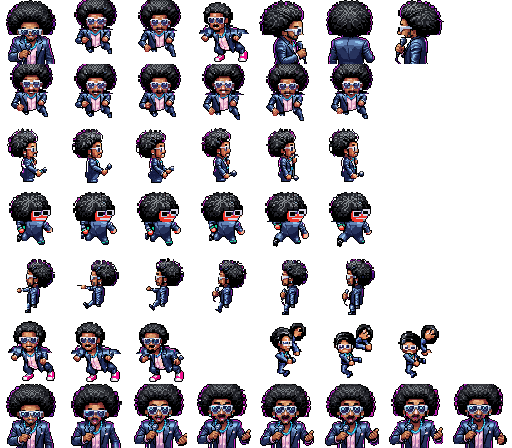
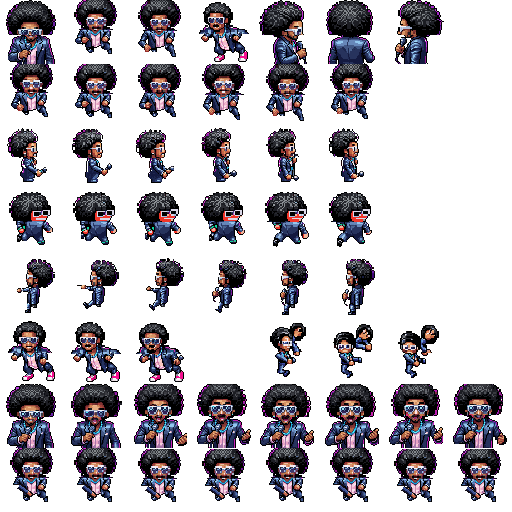
SanMik wonk animation; YEE YEE YEE when SanMik krezzes, YEE on every jump
Claude-Session: https://claude.ai/code/session_01VMaYe2CeeKzcmBuCUqa9Rb

diff --git a/src/game/gfx/sanmikForm.ts b/src/game/gfx/sanmikForm.ts
@@ -13,6 +13,58 @@ export function playerKey(scene: Phaser.Scene): string {
   return scene.textures.exists(k) ? k : `spr_${G.s.player}`;
 }
 
+let lastYee = 0;
+
+/**
+ * SanMik's YEE, with a floating "YEE!" over him (only while the player is SanMik; returns false otherwise).
+ * `times` YEEs `gap` ms apart, each a little higher (his krezz: YEE YEE YEE). `cooldown` stops it spamming
+ * (one per jump, not one per double-jump). `screen` puts the text in screen space (cutscene overlays).
+ */
+export function sanmikYee(scene: Phaser.Scene, x: number, y: number, o: { times?: number; gap?: number; cooldown?: number; screen?: boolean; size?: number; depth?: number; follow?: { x: number; y: number } } = {}): boolean {
+  if (!sanmikActive(G.s)) return false;
+  const now = scene.time.now;
+  if (o.cooldown && now - lastYee < o.cooldown) return false;
+  lastYee = now;
+  const times = o.times ?? 1;
+  const gap = o.gap ?? 330;
+  for (let i = 0; i < times; i++) {
+    const go = () => {
+      if (!scene.sys?.isActive()) return;
+      synth.shout("yee", 0.9, times > 1 ? 1 + i * 0.07 : undefined);
+      const size = (o.size ?? 18) + (times > 1 ? i * 5 : 0);
+      const t = scene.add
+        .text(x + (times > 1 ? (i - (times - 1) / 2) * 72 : 0), y - i * 10, "YEE!", { fontFamily: FONT, fontSize: `${size}px`, color: "#b0c4ff", fontStyle: "bold", stroke: "#000", strokeThickness: 5 })
+        .setOrigin(0.5)
+        .setDepth(o.depth ?? 9000)
+        .setScale(0.4);
+      if (o.screen) t.setScrollFactor(0);
+      scene.tweens.add({ targets: t, scale: 1, duration: 140, ease: "Back.out" });
+      // `follow`: ride along with him (a jump carries him up past where it started)
+      const rise = { dy: 0 };
+      const f = o.follow;
+      const dx = f ? x - f.x : 0;
+      const dy0 = f ? y - f.y : 0;
+      const track = () => f && t.active && t.setPosition(f.x + dx, f.y + dy0 + rise.dy);
+      if (f) scene.events.on("update", track);
+      scene.tweens.add({ targets: [rise], dy: -34, delay: 420, duration: 520 });
+      scene.tweens.add({
+        targets: t,
+        alpha: 0,
+        delay: 420,
+        duration: 520,
+        onUpdate: () => !f && t.setY(y - i * 10 + rise.dy),
+        onComplete: () => {
+          scene.events.off("update", track);
+          t.destroy();
+        },
+      });
+    };
+    if (i === 0) go();
+    else scene.time.delayedCall(i * gap, go);
+  }
+  return true;
+}
+
 /** Swap a sprite's sheet but keep its size (scale setters fold each sheet's own height factor in). */
 export function swapSheet(spr: Phaser.GameObjects.Sprite, key: string) {
   if (!spr.scene?.textures.exists(key) || spr.texture.key === key) return;

diff --git a/src/game/scenes/ClubScene.ts b/src/game/scenes/ClubScene.ts
@@ -1,5 +1,5 @@
 import Phaser from "phaser";
-import { bindSanmikToggle, playerKey, swapSheet } from "../gfx/sanmikForm";
+import { bindSanmikToggle, playerKey, sanmikYee, swapSheet } from "../gfx/sanmikForm";
 import { SANMIK_FLAG } from "../systems/sanmik";
 import { vfx } from "../gfx/Vfx";
 import { squeeze } from "../systems/squeeze";
@@ -705,7 +705,7 @@ export class ClubScene extends Phaser.Scene {
       const gap = Math.min(170, 840 / n);
       const x0 = 480 - ((n - 1) * gap) / 2;
       const all: Rival[] = ids.map((id, i) => {
-        const spr = this.add.sprite(x0 + i * gap, 250, `spr_${id}`, 0).setScale(3.2);
+        const spr = this.add.sprite(x0 + i * gap, 250, id === s.player ? playerKey(this) : `spr_${id}`, 0).setScale(3.2);
         spr.setData("x0", spr.x);
         const pump = perfCycle(spr, "wonk");
         spr.setData("pump", pump);
@@ -767,7 +767,11 @@ export class ClubScene extends Phaser.Scene {
       const finishOne = (r: Rival, res: "perfect" | "over" | "under") => {
         r.result = res;
         r.finishedAt = t;
-        if (r.spr.getData("pump")) r.spr.setFrame(0);
+        // done: the hand stays where it was (under the bar) rather than snapping back to the idle frame
+        const pumpDone = r.spr.getData("pump") as number[] | null;
+        if (pumpDone) r.spr.setFrame(pumpDone[0]);
+        // SanMik krezzes with a YEE YEE YEE
+        if (r === you && res !== "under") sanmikYee(this, r.spr.x, 150, { times: 3, size: 20, depth: 3100 });
         const txt = res === "perfect" ? "KREZZED!" : res === "over" ? "TOO EARLY" : "NOTHING";
         r.label = this.add.text(r.spr.x, 190, txt, { fontFamily: "Impact, sans-serif", fontSize: "20px", color: res === "perfect" ? "#ffffff" : "#f9a8d4", stroke: "#000", strokeThickness: 5 }).setOrigin(0.5).setScale(0.3);
         ui.add(r.label);

diff --git a/src/game/scenes/citadel/RoofCutscene.ts b/src/game/scenes/citadel/RoofCutscene.ts
@@ -8,6 +8,7 @@ import { synth } from "../../audio/Synth";
 import { FONT, title } from "../../ui/theme";
 import { animateWalker, playPerf } from "../../gfx/HD";
 import { censorRect } from "../../gfx/Censor";
+import { playerKey, sanmikYee } from "../../gfx/sanmikForm";
 import { hasVfx, vfx } from "../../gfx/Vfx";
 import * as FR from "../../../content/finaleRoof";
 import { FINALE_BOTTLE_AT, FINALE_LOGS_AT, roofPreload, roofReady } from "./RoofArena";
@@ -151,7 +152,7 @@ export class RoofCutscene extends Phaser.Scene {
 
   /** The other lads, side on (east-facing idle). */
   private lad(id: string, x: number, y: number, scale = 3, facing: "east" | "west" | "south" = "east") {
-    const key = this.textures.exists(`spr_${id}`) ? `spr_${id}` : "spr_FLENKY";
+    const key = id === G.s.player ? playerKey(this) : this.textures.exists(`spr_${id}`) ? `spr_${id}` : "spr_FLENKY";
     const s = this.add.sprite(x, y, key, 0).setOrigin(0.5, 1).setScale(scale);
     s.setData("facing", facing);
     animateWalker(s, 0, 0, false, 0);
@@ -423,6 +424,8 @@ export class RoofCutscene extends Phaser.Scene {
     synth.music("c7_spirit", true);
     this.caption(FR.KZ_FINISH[0], "#ffffff", 46, 1.4);
     for (let i = 0; i < 8; i++) synth.voice(i % 2 ? "oh" : "grunt", 0.5 + i * 0.05, 0.6 + i * 0.1, i * 0.12);
+    // SanMik krezzes with a YEE YEE YEE
+    sanmikYee(this, lads[0].x, lads[0].y - lads[0].displayHeight - 10, { times: 3, size: 22, depth: 1000 });
     const charge = this.add.ellipse(bar.x, barY, bar.width, 40, 0xffffff, 0.2).setDepth(62).setBlendMode(Phaser.BlendModes.ADD);
     this.tweens.add({ targets: charge, scaleY: 3, alpha: 0.9, duration: 1400, ease: "Quad.in" });
     this.cameras.main.shake(1400, 0.008);

diff --git a/src/game/combat/GroupWonk.ts b/src/game/combat/GroupWonk.ts
@@ -4,6 +4,7 @@ import { synth } from "../audio/Synth";
 import { TOUCH } from "../ui/TouchControls";
 import { playPerf } from "../gfx/HD";
 import { addCensorBar } from "../gfx/Censor";
+import { playerKey, sanmikYee } from "../gfx/sanmikForm";
 import { WONK_MOANS, WONK_SHOUTS } from "../../content/finaleRoof";
 
 /**
@@ -86,7 +87,7 @@ export function runGroupWonk(sc: Phaser.Scene, opts: { lads: PlayableId[]; playe
       const x = CX + Math.cos(a) * RX;
       const y = CY + 10 + Math.sin(a) * RY;
       const light = sc.add.ellipse(x, y + (y < CY ? 40 : 46), 84, 26, 0xff4fa3, 0.12);
-      const key = sc.textures.exists(`spr_${id}`) ? `spr_${id}` : "spr_FLENKY";
+      const key = i === 0 ? playerKey(sc) : sc.textures.exists(`spr_${id}`) ? `spr_${id}` : "spr_FLENKY";
       const spr = sc.add.sprite(x, y, key, 0).setScale(y < CY ? 4.2 : 4.9);
       const h = spr.displayHeight;
       // the bar sits on his crotch (per lad), and his hand is under it once he joins in
@@ -284,6 +285,7 @@ export function runGroupWonk(sc: Phaser.Scene, opts: { lads: PlayableId[]; playe
         .setScale(0.3);
       ui.add(big);
       sc.tweens.add({ targets: big, scale: 1, duration: 300, ease: "Back.out" });
+      if (ok) sanmikYee(sc, lads[0].x, lads[0].y - lads[0].spr.displayHeight * 0.5 - 20, { times: 3, screen: true, size: 22, depth: 3600 });
       if (ok) {
         for (let i = 0; i < 6; i++) synth.voice(i % 2 ? "oh" : "grunt", 0.7, 0.7 + i * 0.12, i * 0.12);
         sc.cameras.main.flash(400, 255, 255, 255);

diff --git a/src/game/combat/Wonk.ts b/src/game/combat/Wonk.ts
@@ -6,6 +6,7 @@ import { G } from "../G";
 import { addWrist, wristLook } from "../gfx/Wrist";
 import { perfCycle } from "../gfx/HD";
 import { addCensorBar, censorRect } from "../gfx/Censor";
+import { playerKey, sanmikYee } from "../gfx/sanmikForm";
 import { CHARACTERS } from "../../data/characters";
 import type { Player } from "./Player";
 import { kd } from "../systems/kreddle";
@@ -80,7 +81,7 @@ export function startWonk(p: Player, now: number) {
   }
   // a SUPER_ sheet has no wonk row: wonk in his normal sheet instead (the real arm beats a stand-in wrist)
   const own = p.spr.texture.key;
-  const base = `spr_${p.id}`;
+  const base = playerKey(sc);
   const heroKey = sc.textures.exists(base) && !(sc.textures.get(own).customData as { char?: { wonk?: unknown } })?.char?.wonk ? base : own;
   const hero = sc.add.sprite(320, 300, heroKey, 0).setScale(5.5);
   ui.add(hero);
@@ -213,6 +214,8 @@ export function startWonk(p: Player, now: number) {
     ui.add(big);
     sc.tweens.add({ targets: big, scale: 1, duration: 260, ease: "Back.out" });
     if (result !== "perfect") synth.play("trombone");
+    // SanMik krezzes with a YEE YEE YEE
+    if (result !== "under") sanmikYee(sc, 320, 190, { times: 3, screen: true, size: 26, depth: 3600 });
     if (result === "perfect") {
       // the big finish
       synth.voice("oh", 0.8, pitch * 1.3);

diff --git a/src/game/audio/Synth.ts b/src/game/audio/Synth.ts
@@ -494,7 +494,7 @@ export class Synth {
 
   /** Play part of a loaded recording with a fade-out. */
   /** One YEE (or YEGH), picked at random. */
-  shout(id: "yee" | "yegh", vol = 0.9) {
+  shout(id: "yee" | "yegh", vol = 0.9, rate?: number) {
     const buf = this.files[id];
     const segs = SHOUTS[id];
     if (!this.ctx || !buf || !segs) return false;
@@ -503,11 +503,14 @@ export class Synth {
     const src = this.ctx.createBufferSource();
     const g = this.ctx.createGain();
     src.buffer = buf;
-    src.playbackRate.value = 0.95 + Math.random() * 0.1;
+    const r = rate ?? 0.95 + Math.random() * 0.1;
+    src.playbackRate.value = r;
+    // the segment plays faster (or slower) at another rate, so the fade lands where it ends
+    const dur = len / r;
     g.gain.setValueAtTime(0.0001, t);
     g.gain.exponentialRampToValueAtTime(vol, t + 0.02);
-    g.gain.setValueAtTime(vol, t + Math.max(0.03, len - 0.08));
-    g.gain.exponentialRampToValueAtTime(0.0001, t + len);
+    g.gain.setValueAtTime(vol, t + Math.max(0.03, dur - 0.08));
+    g.gain.exponentialRampToValueAtTime(0.0001, t + dur);
     src.connect(g);
     g.connect(this.sfxGain);
     src.start(t, off, len + 0.05);

diff --git a/src/game/combat/Player.ts b/src/game/combat/Player.ts
@@ -1,4 +1,4 @@
-import { playerKey } from "../gfx/sanmikForm";
+import { playerKey, sanmikYee } from "../gfx/sanmikForm";
 import Phaser from "phaser";
 import { cumehameha, goSuper, megaMelee, superTick } from "./Super";
 import { charMeta, facingFrom, feetBody, steer } from "../gfx/HD";
@@ -227,6 +227,8 @@ export class Player {
         this.jumps = first ? 1 : 0;
         this.coyoteUntil = 0;
         synth.play(first ? "dodge" : "select");
+        // SanMik says YEE when he jumps (once a jump: the cooldown keeps a double-jump to one)
+        sanmikYee(this.world.sc, this.spr.x, this.spr.getTopCenter().y - 14, { cooldown: 650, size: 15, depth: 2000, follow: this.spr });
         if (!first) this.world.burst(this.x, this.y + 14, 0xffffff, 6);
       }
       if (mv.y > 0.6) this.dropUntil = now + 220;

diff --git a/src/game/gfx/Censor.ts b/src/game/gfx/Censor.ts
@@ -21,6 +21,8 @@ export const WONK_ART: Record<string, { frames: number[]; bar: [number, number, 
   spr_KREBLIS: { frames: range(96), bar: [21, 46, 39, 53] },
   // Polson's sheet had no wonk row; it is the 7th row (frames 48-55), registered in BootScene
   spr_POLSON: { frames: range(48), bar: [21, 49, 39, 56] },
+  // SanMik (Mikey's alter ego): an 8th row (frames 56-63) drawn from his south walk pose, registered in BootScene
+  spr_SANMIK: { frames: range(56), bar: [23, 44, 41, 51] },
   // Dark Drongus's boss sheet (128x128 frames): his wonk is the second row (DarkDrongus.ts DD_WONK_F)
   boss_dark_drongus: { frames: range(16), bar: [42, 84, 86, 104] },
 };
